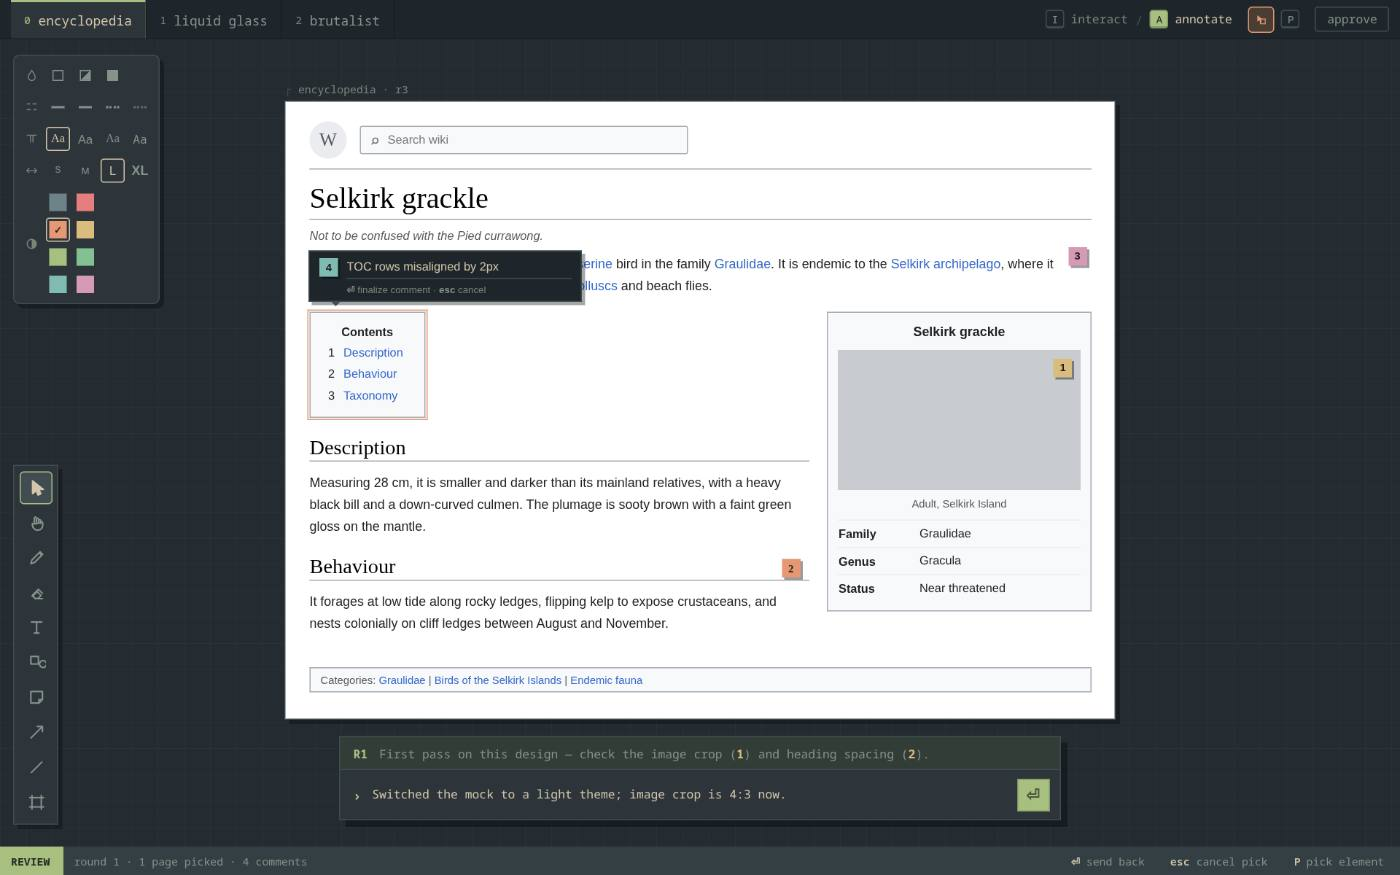
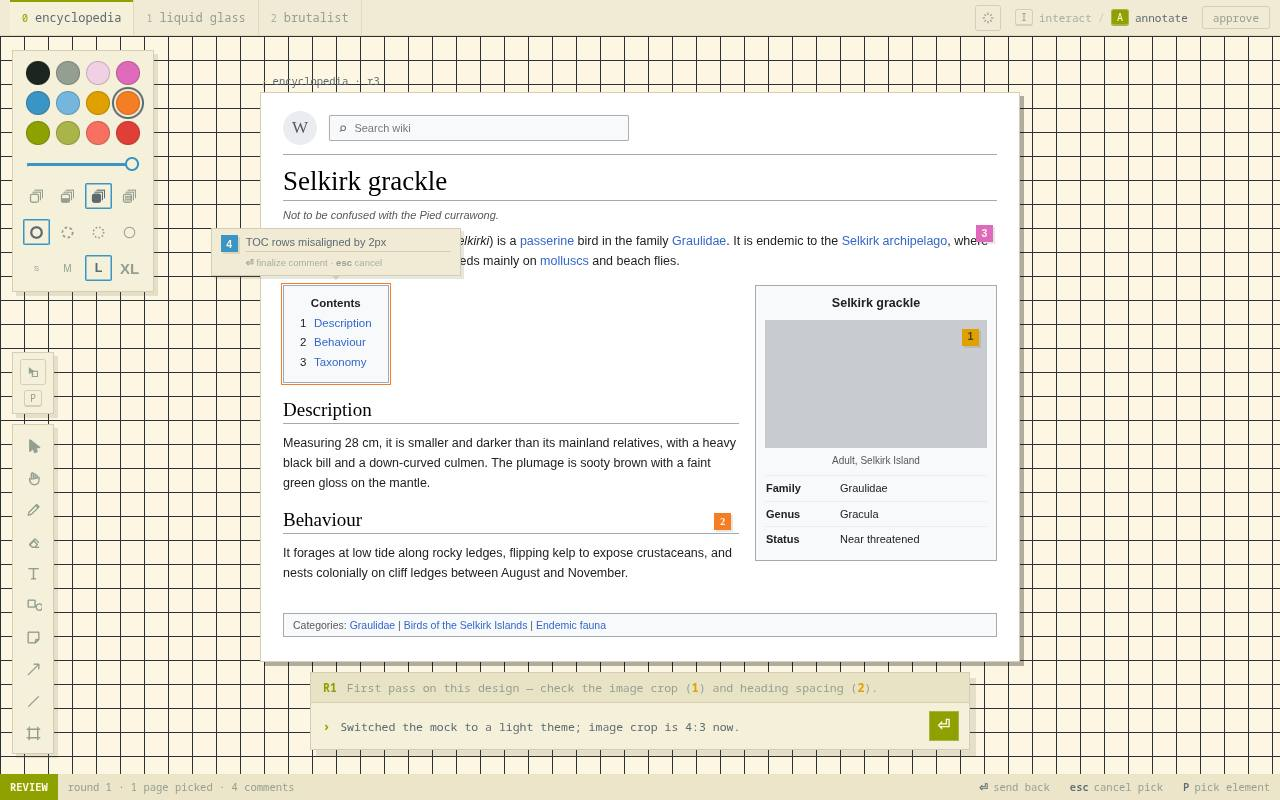
Image-budget auto-compaction: ctx.compact() when image bytes exceed ~3.5MB (evicts old images before provider request limits)

diff --git a/index.ts b/index.ts
@@ -755,6 +755,55 @@ export default function (pi: ExtensionAPI) {
 		},
 	});
 
+	// --- image budget → auto-compaction ----------------------------------------
+	//
+	// Design rounds accumulate image blocks in the conversation (review canvas
+	// shots, screenshot reads, pasted screenshots). Providers cap request size
+	// (~5-8 MiB) and reject with 413/400 long before token-based compaction
+	// would trigger. Track image bytes flowing through tool results and user
+	// messages; past the threshold, trigger ctx.compact() — old images are
+	// evicted into the summary, accepting the one-off cache invalidation.
+	const budgetState = { bytes: 0, compacting: false };
+	const budgetThreshold = (() => {
+		const mb = Number(process.env.PI_UI_FORGE_IMAGE_BUDGET_MB ?? "3.5");
+		return Number.isFinite(mb) && mb > 0 ? mb * 1024 * 1024 : 3.5 * 1024 * 1024;
+	})();
+
+	const countImages = (content: unknown): number => {
+		let bytes = 0;
+		for (const block of Array.isArray(content) ? content : []) {
+			if (block && (block as { type?: string }).type === "image") {
+				bytes += String((block as { data?: string }).data ?? "").length;
+			}
+		}
+		return bytes;
+	};
+
+	const maybeCompact = (ctx: { compact: () => void }): void => {
+		if (budgetState.bytes <= budgetThreshold || budgetState.compacting) return;
+		budgetState.compacting = true;
+		budgetState.bytes = 0;
+		console.error(
+			`[ui-forge] image budget exceeded (~${(budgetThreshold / 1024 / 1024).toFixed(1)} MB of images in context) — triggering compaction to evict old images`,
+		);
+		// compact() is fire-and-forget; re-arm after it has had time to finish
+		setTimeout(() => {
+			budgetState.compacting = false;
+		}, 120_000);
+		ctx.compact();
+	};
+
+	pi.on("tool_result", (event, ctx) => {
+		budgetState.bytes += countImages(event.content);
+		maybeCompact(ctx);
+	});
+
+	pi.on("message_end", (event, ctx) => {
+		const content = (event as { message?: { content?: unknown } }).message?.content;
+		budgetState.bytes += countImages(content);
+		maybeCompact(ctx);
+	});
+
 	pi.on("session_shutdown", async () => {
 		const s = session;
 		if (!s) return;

diff --git a/design-mocks/dist/a-interact/bundle.js b/design-mocks/dist/a-interact/bundle.js
@@ -14898,7 +14898,7 @@ function Chrome({ design, state }) {
   const mockVariant = annotate ? "annotate" : state === "work" ? "work" : "plain";
   const dname = designs.find((d) => d.id === design)?.name ?? design;
   const label = state === "work" ? `${dname} \xB7 r3 \u2192 r4` : `${dname} \xB7 r3`;
-  return /* @__PURE__ */ (0, import_jsx_runtime4.jsxs)("div", { className: `app ${light ? "light" : ""}`, "data-build": "r23", children: [
+  return /* @__PURE__ */ (0, import_jsx_runtime4.jsxs)("div", { className: `app ${light ? "light" : ""}`, "data-build": "r27", children: [
     /* @__PURE__ */ (0, import_jsx_runtime4.jsxs)("header", { id: "topbar", children: [
       /* @__PURE__ */ (0, import_jsx_runtime4.jsx)("nav", { id: "tabs", children: designs.map((d, i) => /* @__PURE__ */ (0, import_jsx_runtime4.jsxs)("button", { className: `tab ${d.id === design ? "tab-active" : ""}`, children: [
         /* @__PURE__ */ (0, import_jsx_runtime4.jsx)("span", { className: "tab-idx", children: i }),

diff --git a/design-mocks/dist/a-work/bundle.js b/design-mocks/dist/a-work/bundle.js
@@ -14898,7 +14898,7 @@ function Chrome({ design, state }) {
   const mockVariant = annotate ? "annotate" : state === "work" ? "work" : "plain";
   const dname = designs.find((d) => d.id === design)?.name ?? design;
   const label = state === "work" ? `${dname} \xB7 r3 \u2192 r4` : `${dname} \xB7 r3`;
-  return /* @__PURE__ */ (0, import_jsx_runtime4.jsxs)("div", { className: `app ${light ? "light" : ""}`, "data-build": "r23", children: [
+  return /* @__PURE__ */ (0, import_jsx_runtime4.jsxs)("div", { className: `app ${light ? "light" : ""}`, "data-build": "r27", children: [
     /* @__PURE__ */ (0, import_jsx_runtime4.jsxs)("header", { id: "topbar", children: [
       /* @__PURE__ */ (0, import_jsx_runtime4.jsx)("nav", { id: "tabs", children: designs.map((d, i) => /* @__PURE__ */ (0, import_jsx_runtime4.jsxs)("button", { className: `tab ${d.id === design ? "tab-active" : ""}`, children: [
         /* @__PURE__ */ (0, import_jsx_runtime4.jsx)("span", { className: "tab-idx", children: i }),

diff --git a/design-mocks/dist/a/bundle.js b/design-mocks/dist/a/bundle.js
@@ -14898,7 +14898,7 @@ function Chrome({ design, state }) {
   const mockVariant = annotate ? "annotate" : state === "work" ? "work" : "plain";
   const dname = designs.find((d) => d.id === design)?.name ?? design;
   const label = state === "work" ? `${dname} \xB7 r3 \u2192 r4` : `${dname} \xB7 r3`;
-  return /* @__PURE__ */ (0, import_jsx_runtime4.jsxs)("div", { className: `app ${light ? "light" : ""}`, "data-build": "r23", children: [
+  return /* @__PURE__ */ (0, import_jsx_runtime4.jsxs)("div", { className: `app ${light ? "light" : ""}`, "data-build": "r27", children: [
     /* @__PURE__ */ (0, import_jsx_runtime4.jsxs)("header", { id: "topbar", children: [
       /* @__PURE__ */ (0, import_jsx_runtime4.jsx)("nav", { id: "tabs", children: designs.map((d, i) => /* @__PURE__ */ (0, import_jsx_runtime4.jsxs)("button", { className: `tab ${d.id === design ? "tab-active" : ""}`, children: [
         /* @__PURE__ */ (0, import_jsx_runtime4.jsx)("span", { className: "tab-idx", children: i }),

diff --git a/design-mocks/dist/brutal-interact/bundle.js b/design-mocks/dist/brutal-interact/bundle.js
@@ -14898,7 +14898,7 @@ function Chrome({ design, state }) {
   const mockVariant = annotate ? "annotate" : state === "work" ? "work" : "plain";
   const dname = designs.find((d) => d.id === design)?.name ?? design;
   const label = state === "work" ? `${dname} \xB7 r3 \u2192 r4` : `${dname} \xB7 r3`;
-  return /* @__PURE__ */ (0, import_jsx_runtime4.jsxs)("div", { className: `app ${light ? "light" : ""}`, "data-build": "r23", children: [
+  return /* @__PURE__ */ (0, import_jsx_runtime4.jsxs)("div", { className: `app ${light ? "light" : ""}`, "data-build": "r27", children: [
     /* @__PURE__ */ (0, import_jsx_runtime4.jsxs)("header", { id: "topbar", children: [
       /* @__PURE__ */ (0, import_jsx_runtime4.jsx)("nav", { id: "tabs", children: designs.map((d, i) => /* @__PURE__ */ (0, import_jsx_runtime4.jsxs)("button", { className: `tab ${d.id === design ? "tab-active" : ""}`, children: [
         /* @__PURE__ */ (0, import_jsx_runtime4.jsx)("span", { className: "tab-idx", children: i }),

diff --git a/design-mocks/dist/brutal-work/bundle.js b/design-mocks/dist/brutal-work/bundle.js
@@ -14898,7 +14898,7 @@ function Chrome({ design, state }) {
   const mockVariant = annotate ? "annotate" : state === "work" ? "work" : "plain";
   const dname = designs.find((d) => d.id === design)?.name ?? design;
   const label = state === "work" ? `${dname} \xB7 r3 \u2192 r4` : `${dname} \xB7 r3`;
-  return /* @__PURE__ */ (0, import_jsx_runtime4.jsxs)("div", { className: `app ${light ? "light" : ""}`, "data-build": "r23", children: [
+  return /* @__PURE__ */ (0, import_jsx_runtime4.jsxs)("div", { className: `app ${light ? "light" : ""}`, "data-build": "r27", children: [
     /* @__PURE__ */ (0, import_jsx_runtime4.jsxs)("header", { id: "topbar", children: [
       /* @__PURE__ */ (0, import_jsx_runtime4.jsx)("nav", { id: "tabs", children: designs.map((d, i) => /* @__PURE__ */ (0, import_jsx_runtime4.jsxs)("button", { className: `tab ${d.id === design ? "tab-active" : ""}`, children: [
         /* @__PURE__ */ (0, import_jsx_runtime4.jsx)("span", { className: "tab-idx", children: i }),

diff --git a/design-mocks/dist/brutal/bundle.js b/design-mocks/dist/brutal/bundle.js
@@ -14898,7 +14898,7 @@ function Chrome({ design, state }) {
   const mockVariant = annotate ? "annotate" : state === "work" ? "work" : "plain";
   const dname = designs.find((d) => d.id === design)?.name ?? design;
   const label = state === "work" ? `${dname} \xB7 r3 \u2192 r4` : `${dname} \xB7 r3`;
-  return /* @__PURE__ */ (0, import_jsx_runtime4.jsxs)("div", { className: `app ${light ? "light" : ""}`, "data-build": "r23", children: [
+  return /* @__PURE__ */ (0, import_jsx_runtime4.jsxs)("div", { className: `app ${light ? "light" : ""}`, "data-build": "r27", children: [
     /* @__PURE__ */ (0, import_jsx_runtime4.jsxs)("header", { id: "topbar", children: [
       /* @__PURE__ */ (0, import_jsx_runtime4.jsx)("nav", { id: "tabs", children: designs.map((d, i) => /* @__PURE__ */ (0, import_jsx_runtime4.jsxs)("button", { className: `tab ${d.id === design ? "tab-active" : ""}`, children: [
         /* @__PURE__ */ (0, import_jsx_runtime4.jsx)("span", { className: "tab-idx", children: i }),

diff --git a/design-mocks/dist/glass-interact/bundle.js b/design-mocks/dist/glass-interact/bundle.js
@@ -14898,7 +14898,7 @@ function Chrome({ design, state }) {
   const mockVariant = annotate ? "annotate" : state === "work" ? "work" : "plain";
   const dname = designs.find((d) => d.id === design)?.name ?? design;
   const label = state === "work" ? `${dname} \xB7 r3 \u2192 r4` : `${dname} \xB7 r3`;
-  return /* @__PURE__ */ (0, import_jsx_runtime4.jsxs)("div", { className: `app ${light ? "light" : ""}`, "data-build": "r23", children: [
+  return /* @__PURE__ */ (0, import_jsx_runtime4.jsxs)("div", { className: `app ${light ? "light" : ""}`, "data-build": "r27", children: [
     /* @__PURE__ */ (0, import_jsx_runtime4.jsxs)("header", { id: "topbar", children: [
       /* @__PURE__ */ (0, import_jsx_runtime4.jsx)("nav", { id: "tabs", children: designs.map((d, i) => /* @__PURE__ */ (0, import_jsx_runtime4.jsxs)("button", { className: `tab ${d.id === design ? "tab-active" : ""}`, children: [
         /* @__PURE__ */ (0, import_jsx_runtime4.jsx)("span", { className: "tab-idx", children: i }),

diff --git a/design-mocks/dist/glass-work/bundle.js b/design-mocks/dist/glass-work/bundle.js
@@ -14898,7 +14898,7 @@ function Chrome({ design, state }) {
   const mockVariant = annotate ? "annotate" : state === "work" ? "work" : "plain";
   const dname = designs.find((d) => d.id === design)?.name ?? design;
   const label = state === "work" ? `${dname} \xB7 r3 \u2192 r4` : `${dname} \xB7 r3`;
-  return /* @__PURE__ */ (0, import_jsx_runtime4.jsxs)("div", { className: `app ${light ? "light" : ""}`, "data-build": "r23", children: [
+  return /* @__PURE__ */ (0, import_jsx_runtime4.jsxs)("div", { className: `app ${light ? "light" : ""}`, "data-build": "r27", children: [
     /* @__PURE__ */ (0, import_jsx_runtime4.jsxs)("header", { id: "topbar", children: [
       /* @__PURE__ */ (0, import_jsx_runtime4.jsx)("nav", { id: "tabs", children: designs.map((d, i) => /* @__PURE__ */ (0, import_jsx_runtime4.jsxs)("button", { className: `tab ${d.id === design ? "tab-active" : ""}`, children: [
         /* @__PURE__ */ (0, import_jsx_runtime4.jsx)("span", { className: "tab-idx", children: i }),

diff --git a/design-mocks/dist/glass/bundle.js b/design-mocks/dist/glass/bundle.js
@@ -14898,7 +14898,7 @@ function Chrome({ design, state }) {
   const mockVariant = annotate ? "annotate" : state === "work" ? "work" : "plain";
   const dname = designs.find((d) => d.id === design)?.name ?? design;
   const label = state === "work" ? `${dname} \xB7 r3 \u2192 r4` : `${dname} \xB7 r3`;
-  return /* @__PURE__ */ (0, import_jsx_runtime4.jsxs)("div", { className: `app ${light ? "light" : ""}`, "data-build": "r23", children: [
+  return /* @__PURE__ */ (0, import_jsx_runtime4.jsxs)("div", { className: `app ${light ? "light" : ""}`, "data-build": "r27", children: [
     /* @__PURE__ */ (0, import_jsx_runtime4.jsxs)("header", { id: "topbar", children: [
       /* @__PURE__ */ (0, import_jsx_runtime4.jsx)("nav", { id: "tabs", children: designs.map((d, i) => /* @__PURE__ */ (0, import_jsx_runtime4.jsxs)("button", { className: `tab ${d.id === design ? "tab-active" : ""}`, children: [
         /* @__PURE__ */ (0, import_jsx_runtime4.jsx)("span", { className: "tab-idx", children: i }),

diff --git a/design-mocks/app/components/chrome.tsx b/design-mocks/app/components/chrome.tsx
@@ -68,7 +68,7 @@ export default function Chrome({ design, state }: { design: Design; state: State
 	const label = state === "work" ? `${dname} · r3 → r4` : `${dname} · r3`;
 
 	return (
-		<div className={`app ${light ? "light" : ""}`} data-build="r23">
+		<div className={`app ${light ? "light" : ""}`} data-build="r27">
 			<header id="topbar">
 				<nav id="tabs">
 					{designs.map((d, i) => (

diff --git a/design-mocks/design-notes.md b/design-mocks/design-notes.md
@@ -23,14 +23,24 @@ theme (Everforest dark-medium, JetBrains Mono) around a tldraw-style canvas.
 - Bottom statusline replaces any status pill: accent segment signals state —
   green `REVIEW` / orange `WORKING` / blue `INTERACT` — plus round/page/
   comment counts and right-aligned key hints. No app identity, no version.
-- Themes: Everforest dark-medium (default) + everforest light-medium via a
+- Themes: everforest light-medium (DEFAULT on state pages) + dark-medium via
   working sun/moon `#theme-toggle` left of the mode toggle (one useState —
   the only interactive state in the mock). All chrome colors are CSS vars
   overridden under `.app.light`; mock frames keep their own palettes.
+- Style modal is tldraw-exact: 3×4 grid of CIRCULAR swatches, black
+  upper-left (12 everforest-reskinned hues as `--sw-*` vars, follow theme),
+  blue opacity slider (thumb right), fill row (tldraw stacked-sheet icons),
+  dash row (tldraw circle icons: solid/dashed/dotted/thin), S/M/L/XL size row
+  (L active, blue ring). Panel shell squared-off (0 radius) per theme.
+- Popup comment editor (`#comment-pop`) opens CENTERED above the picked
+  element, arrow down — same geometry as the hover pin tooltips
+  (`.pop-anchor` is width: fit-content for this).
 - Pick-element is NOT a tldraw tool: it lives in its own floating panel
-  (`#pick-panel`) above the tool dock in a shared `#dock-stack` (10px gap),
-  armed (orange) in annotate — which deselects any tldraw tool — and dimmed
-  while working. Removed from the topbar.
+  (`#pick-panel`) above the tool dock in a shared `#dock-stack` (10px gap).
+  Armed (orange) in annotate — which deselects any tldraw tool; hidden while
+  working (nothing pickable); removed from the topbar.
+- Work state shows ONLY the progress bar (banner dropped as redundant):
+  spinner + "revising <design> — <detail>" + meta line.
 
 ## Key decisions
 - Single shared `Chrome` component (`app/components/chrome.tsx`) + three
@@ -45,13 +55,31 @@ theme (Everforest dark-medium, JetBrains Mono) around a tldraw-style canvas.
   `#review-banner`, `#prompt-bar`, `#send-back`, `#progress-bar`,
   `#statusline`, `#comment-pop`, `.pop-target`.
 
-## Reference renders
-- `shots/rN/` — per-round canvas captures (r11 = last push before this round).
+## Pipeline gotchas (current)
+- mock_build only builds; the GUI updates on mock_review. mock_screenshot
+  renders OFFSCREEN (fresh, works for undisplayed pages).
+- The editor hot-swap hash covers bundle.js ONLY — CSS-only rebuilds do NOT
+  hot-swap GUI iframes (stale-css trap; offscreen screenshots are immune).
+  Force a reload by touching the TSX (any JS change) or renaming the canvas.
+- Drawing crops can still arrive image:null — typed comment text + the
+  whole-canvas image are reliable; zoom the canvas jpg for placed reference
+  images.
+- a-interact offscreen captures rendered clipped once (r25); a rebuild +
+  solo canvas fixed it (r27).
 
 ## Open items (current round)
-1. Full frame labels — applied: every frame shows `design name · revision`
-   (`encyclopedia · r3`; working state shows `encyclopedia · r3 → r4`).
-2. Pin anchoring — applied: pins are now children of their target elements
-   (wiki: infobox image / Behaviour h2 / lead paragraph; glass: nav / hero /
-   stat row), so they can never drift outside the card or hide behind the
-   popup comment editor.
+1. Full frame labels — applied + verified r28: every frame shows
+   `design name · revision` (`encyclopedia · r3`; working state shows
+   `encyclopedia · r3 → r4`).
+2. Pin anchoring — applied + verified r28: pins are children of their target
+   elements (wiki: infobox image / Behaviour h2 / lead paragraph; glass: nav /
+   hero / stat row; brutal: index-card image / BEHAVIOUR button / headline),
+   so they can never drift outside the card or hide behind the popup comment
+   editor. Popup comment editor anchors correctly on wiki (TOC) and glass
+   (active pill) with down-arrow + finalize/cancel hints.
+
+## Session gotcha (r28, fresh subagent)
+- mock_screenshot saves only ONE page per call in this environment — request
+   pages solo ("[\"a\"]") and read each path; batched requests silently save
+   just the first page. Old shots/r1..r7 dirs contain stale files from a
+   reset round counter — trust file mtimes, not the round number.
